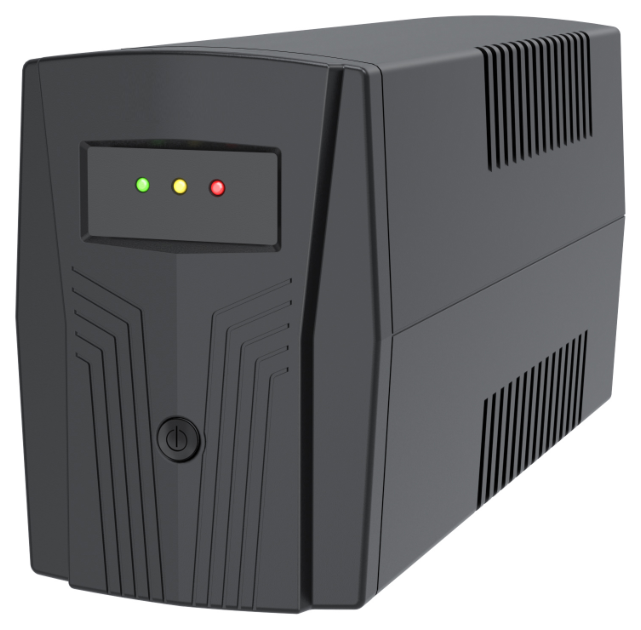
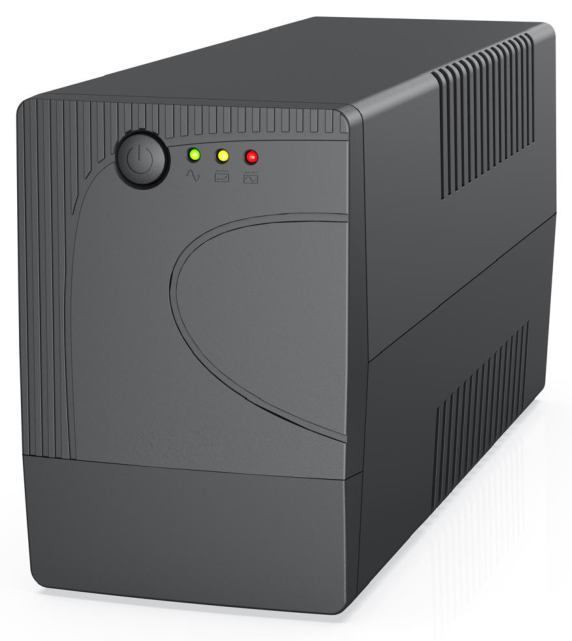
Görsel Update yapıldı

diff --git a/data.js b/data.js
@@ -76,14 +76,14 @@ Object.assign(window.siteData, {
     { src: "anasayfa/anasayfa1.png", type: "image", alt: "Anasayfa 1" }, { src: "anasayfa/anasayfa2.jpeg", type: "image", alt: "Anasayfa 2" }, { src: "anasayfa/anasayfa3.mp4", type: "video", alt: "Anasayfa 3" }, { src: "anasayfa/anasayfa4.mp4", type: "video", alt: "Anasayfa 4" }, { src: "anasayfa/anasayfa5.jpeg", type: "image", alt: "Anasayfa 5" }, { src: "anasayfa/anasayfa6.mp4", type: "video", alt: "Anasayfa 6" }
   ],
   products: [
-    { id: "line-interactive-ups", image: "products/thumbnails/line-interactive-ups.png", title: "Line Interactive UPS", description: "Bilgisayar ve POS sistemleri.", document: "products/LİNE İNT. UPS.docx" },
-    { id: "asansor-ups", image: "products/thumbnails/asansor-ups.png", title: "Asansör UPS", description: "Asansör sistemleri için.", document: "products/ASANSÖR UPS.docx" },
-    { id: "rack-mount-online-ups", image: "products/thumbnails/rack-mount-1-2-3-kva.png", title: "Rack Mount On-Line UPS 1-2-3 KVA", description: "On-Line 1-1 UPS. Server ve network sistemleri.", document: "products/RACK-TOWER 1-2-3 KVA..docx" },
-    { id: "rack-tower-6-10-kva", image: "products/thumbnails/rack-tower-6-10-kva.png", title: "Rack Tower 6-10 KVA", description: "On-Line 1-1 UPS. Rack ve tower kurulumları için.", document: "products/RACK-TOWER 6-10 KVA. - Cosq1.docx" },
-    { id: "6-10-kva", image: "products/thumbnails/6-10-kva.png", title: "6-10 KVA", description: "On-Line 1-1 faz UPS.", document: "products/6-10 KVA..docx" },
-    { id: "10-20-kva", image: "products/thumbnails/10-20-kva.png", title: "10-20 KVA", description: "On-Line 3-1 UPS.", document: "products/N_SERISI_10-20_kVA_Urun_Brosuru.pdf", documentPages: ["products/documents/10-20-kva-1.png", "products/documents/10-20-kva-2.png"] },
-    { id: "10-120-kva", image: "products/thumbnails/10-120-kva.png", title: "10-120 KVA", description: "On-Line 3-3 UPS.", document: "products/BTR_SERISI_10-120_kVA_Urun_Brosuru.pdf", documentPages: ["products/documents/10-120-kva-1.png", "products/documents/10-120-kva-2.png"] },
-    { id: "160-800-kva", image: "products/thumbnails/160-800-kva.png", title: "160-800 KVA", description: "On-Line 3-3 UPS.", document: "products/BTR_SERISI_160-800_kVA_Urun_Brosuru.pdf", documentPages: ["products/documents/160-800-kva-1.png", "products/documents/160-800-kva-2.png"] },
+    { id: "line-interactive-ups", image: "products/thumbnails/line-interactive-ups-red.png", title: "Line Interactive UPS", description: "Bilgisayar ve POS sistemleri.", document: "products/LİNE İNT. UPS.docx", documentImages: { "media/image2.png": "products/line-int.jpeg" } },
+    { id: "asansor-ups", image: "products/thumbnails/asansor-ups-red.png", title: "Asansör UPS", description: "Asansör sistemleri için.", document: "products/ASANSÖR UPS.docx" },
+    { id: "rack-mount-online-ups", image: "products/thumbnails/rack-mount-1-2-3-kva-red.png", title: "Rack Mount 1-2-3 KVA", description: "On-Line 1-1 UPS. 1 faz giriş, 1 faz çıkış. Server ve network sistemleri.", document: "products/RACK-TOWER 1-2-3 KVA..docx" },
+    { id: "rack-tower-6-10-kva", image: "products/thumbnails/rack-tower-6-10-kva-red.png", title: "Rack Tower 6-10 KVA", description: "On-Line 1-1 UPS. 1 faz giriş, 1 faz çıkış. Rack ve tower kurulumları için.", document: "products/RACK-TOWER 6-10 KVA. - Cosq1.docx" },
+    { id: "6-10-kva", image: "products/thumbnails/6-10-kva-red.png", title: "6-10 KVA", description: "On-Line 1-1 faz UPS. 1 faz giriş, 1 faz çıkış.", document: "products/6-10 KVA..docx" },
+    { id: "10-20-kva", image: "products/thumbnails/10-20-kva.png", title: "10-20 KVA", description: "On-Line 3-1 UPS. 3 faz giriş, 1 faz çıkış.", document: "products/N_SERISI_10-20_kVA_Urun_Brosuru.pdf", documentPages: ["products/documents/10-20-kva-1.png", "products/documents/10-20-kva-2.png"] },
+    { id: "10-120-kva", image: "products/thumbnails/10-120-kva.png", title: "10-120 KVA", description: "On-Line 3-3 UPS. 3 faz giriş, 3 faz çıkış.", document: "products/BTR_SERISI_10-120_kVA_Urun_Brosuru.pdf", documentPages: ["products/documents/10-120-kva-1.png", "products/documents/10-120-kva-2.png"] },
+    { id: "160-800-kva", image: "products/thumbnails/160-800-kva.png", title: "160-800 KVA", description: "On-Line 3-3 UPS. 3 faz giriş, 3 faz çıkış.", document: "products/BTR_SERISI_160-800_kVA_Urun_Brosuru.pdf", documentPages: ["products/documents/160-800-kva-1.png", "products/documents/160-800-kva-2.png"] },
   ],
   references: [
     { image: "references/main1.png", name: "Harp Akademileri" }, { image: "references/main2.jpg", name: "Bayraktar" }, { image: "references/main3.png", name: "Polat", theme: "dark" }, { image: "references/main4.png", name: "UNO" }, { image: "references/2.png", name: "Referans 02" }, { image: "references/3.png", name: "Referans 03" }, { image: "references/5.png", name: "Referans 05" }, { image: "references/8.png", name: "Referans 08" }, { image: "references/12.png", name: "Referans 12" }, { image: "references/13.png", name: "Referans 13" }, { image: "references/14.png", name: "Referans 14" }, { image: "references/15.png", name: "Referans 15" }, { image: "references/16.png", name: "Referans 16" }, { image: "references/17.png", name: "Referans 17" }, { image: "references/20.png", name: "Referans 20" }, { image: "references/22.png", name: "Referans 22" }, { image: "references/23.png", name: "Referans 23" }, { image: "references/26.png", name: "Referans 26" }, { image: "references/27.png", name: "Referans 27" }, { image: "references/19.jpg", name: "Referans 19" }, { image: "references/21.jpg", name: "Referans 21" }, { image: "references/24.jpg", name: "Referans 24" }, { image: "references/26.jpg", name: "Referans 26" }, { image: "references/central hospital.jpg", name: "Central Hospital" }, { image: "references/delta.webp", name: "Delta" }, { image: "references/doku-logo-7.png.webp", name: "Doku" }, { image: "references/doğruer.png", name: "Doğruer" }, { image: "references/eskişehir.jpg", name: "Eskişehir" }, { image: "references/kendal.jpg", name: "Kendal" }, { image: "references/megapolnewlogo.png.webp", name: "Megapol" }, { image: "references/mediplus-logo.png", name: "Mediplus" }, { image: "references/MİMAR-SİNAN-GÜZEL-SANATLAR-ÜNİVERSİTESİ-logo1.jpg", name: "Mimar Sinan Güzel Sanatlar Üniversitesi" }, { image: "references/ota-logo.png", name: "OTA" }, { image: "references/pendik veteriner.jpg", name: "Pendik Veteriner" }, { image: "references/sertrans.png", name: "Sertrans" }, { image: "references/Tarım Müdürlüğü.png", name: "Tarım Müdürlüğü" }, { image: "references/yurtbay.svg", name: "Yurtbay" }

diff --git a/urunler.html b/urunler.html
@@ -1,3 +1,3 @@
 <!doctype html><html lang="tr"><head><meta charset="utf-8"><meta name="viewport" content="width=device-width, initial-scale=1"><title>Ürünlerimiz | ist kesintisiz güç</title><link rel="icon" type="image/png" href="assets/images/favicon.png"><link rel="stylesheet" href="tasarım.css?v=20261004-products-2"></head><body>
 <header class="site-header"><div class="logo-container"><a class="brand" href="index.html"><img class="brand-logo" src="assets/images/logo.png" alt="ist kesintisiz güç"></a></div><div class="nav-wrap"><button class="nav-toggle" aria-label="Menüyü aç">☰</button><nav class="main-nav"><a href="index.html">AnaSayfa</a><div class="drop"><button class="drop-toggle">Kurumsal</button><div class="dropdown"><a href="kurumsal.html#mesaj">Kurucunun Mesajı</a><a href="kurumsal.html#hakkimizda">Hakkımızda</a><a href="kurumsal.html#vizyon">Vizyonumuz ve Misyonumuz</a><a href="kurumsal.html#degerler">Değerlerimiz</a></div></div><a href="hizmetler.html">Hizmetler</a><a href="urunler.html">Ürünlerimiz</a><a href="referanslar.html">Referanslar</a><a href="iletisim.html">İletişim</a></nav></div></header>
-<div class="crumbs"><div class="container">⌂ <a href="index.html">Anasayfa</a><span>/</span>Ürünlerimiz</div></div><main class="page"><div class="container"><h1 class="section-title" data-products-title></h1><div class="product-grid" data-products></div></div></main><div data-footer></div><script src="data.js?v=20261004-products-3"></script><script src="app.js?v=20261004-products-2"></script></body></html>
+<div class="crumbs"><div class="container">⌂ <a href="index.html">Anasayfa</a><span>/</span>Ürünlerimiz</div></div><main class="page"><div class="container"><h1 class="section-title" data-products-title></h1><div class="product-grid" data-products></div></div></main><div data-footer></div><script src="data.js?v=20261004-products-4"></script><script src="app.js?v=20261004-products-2"></script></body></html>

diff --git a/app.js b/app.js
@@ -185,10 +185,11 @@ document.addEventListener("DOMContentLoaded", () => {
         const type = imageType(file);
         if (!type) return null;
         const image = document.createElement("img");
-        image.src = URL.createObjectURL(new Blob([await unzipDocxEntry(archive, file)], { type }));
+        const replacement = product.documentImages?.[target];
+        image.src = replacement ? `assets/images/${replacement}` : URL.createObjectURL(new Blob([await unzipDocxEntry(archive, file)], { type }));
         image.alt = product.title;
         const extent = drawing.getElementsByTagName("wp:extent")[0];
-        if (extent) image.style.aspectRatio = `${extent.getAttribute("cx")} / ${extent.getAttribute("cy")}`;
+        if (extent && !replacement) image.style.aspectRatio = `${extent.getAttribute("cx")} / ${extent.getAttribute("cy")}`;
         const figure = document.createElement("figure");
         figure.className = "document-figure";
         figure.append(image);

diff --git a/urun-detay.html b/urun-detay.html
@@ -12,6 +12,6 @@
   <div class="crumbs"><div class="container">⌂ <a href="index.html">Anasayfa</a><span>/</span><a href="urunler.html">Ürünlerimiz</a><span>/</span>Ürün Dokümanı</div></div>
   <main class="page"><div class="container document-page"><h1 class="section-title" data-document-title>Ürün Dokümanı</h1><p class="section-lead" data-document-description></p><div class="document-actions"><a class="btn btn-outline" href="urunler.html">← Ürünlere dön</a><a class="btn" data-document-download download>DOCX indir</a></div><article class="document-content" data-document-content aria-live="polite">Doküman yükleniyor…</article></div></main>
   <div data-footer></div>
-  <script src="data.js?v=20261004-products-3"></script><script src="app.js?v=20261004-products-2"></script>
+  <script src="data.js?v=20261004-products-4"></script><script src="app.js?v=20261004-products-2"></script>
 </body>
 </html>

diff --git a/index.html b/index.html
@@ -38,7 +38,7 @@
   </main>
   <div data-footer></div>
 
-<script src="data.js?v=20261004-products-3"></script>
+<script src="data.js?v=20261004-products-4"></script>
 <script src="lightning.js?v=20261004-products-2"></script>
 <script src="app.js?v=20261004-products-2"></script>
 </body>

diff --git a/scripts/build-product-images.py b/scripts/build-product-images.py
@@ -41,7 +41,7 @@ def thumbnail(data, target):
 def build():
     THUMBNAILS.mkdir(parents=True, exist_ok=True)
     PREVIEWS.mkdir(parents=True, exist_ok=True)
-    thumbnail((ROOT / 'LİNE İNT-MYTEC-1.png').read_bytes(), THUMBNAILS / 'line-interactive-ups.png')
+    thumbnail((ROOT / 'line-int.jpeg').read_bytes(), THUMBNAILS / 'line-interactive-ups.png')
     sources = [
         ('ASANSO*UPS.docx', 'word/media/image2.png', 'asansor-ups'),
         ('RACK-TOWER 1-2-3 KVA..docx', 'word/media/image2.png', 'rack-mount-1-2-3-kva'),

diff --git a/README.md b/README.md
@@ -28,7 +28,16 @@ Ana sayfa ürün görselleri `assets/images/products/`, referans logoları `asse
 
 Kart sırası, `siteData.products` dizisinin sırasıdır; ana sayfa ve ürünler sayfası aynı diziyi kullanır.
 Mevcut kart fotoğrafları `products/thumbnails/` klasöründedir. Line Interactive fotoğrafı
-`LİNE İNT-MYTEC-1.png` dosyasından, diğer fotoğraflar ilgili DOCX/PDF dokümanlarından alınır.
+`line-int.jpeg` dosyasından, diğer fotoğraflar ilgili DOCX/PDF dokümanlarından alınır.
+Line Interactive detay sayfasındaki ana ürün fotoğrafı da `documentImages` alanıyla
+bu JPEG dosyasından gösterilir.
+
+Line Interactive, Asansör, Rack Mount, Rack Tower ve 6–10 KVA kartları,
+mevcut üç KVA görselinin kırmızı neon tonuna uyarlanmış `*-red.png` görsellerini
+kullanır. Bu 640 × 405 piksel görseller ImageGen ile hazırlanmıştır;
+üretim komutları `scripts/product-image-prompts.json` içindedir.
+`build-product-images.py` kaynak thumbnail'leri yeniden üretir; kırmızı arka planlı
+kart görsellerini değiştirmez.
 
 ## Ürün dokümanları
 
